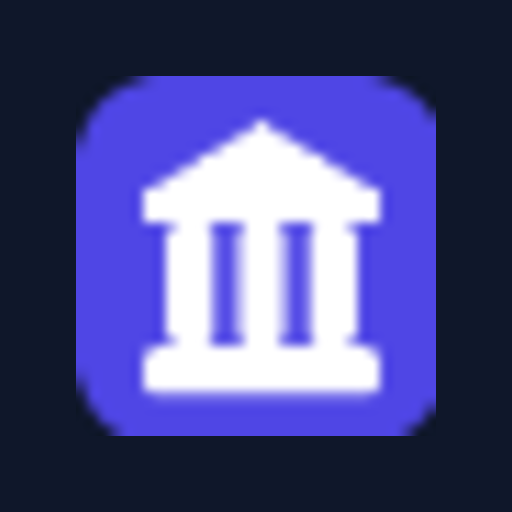
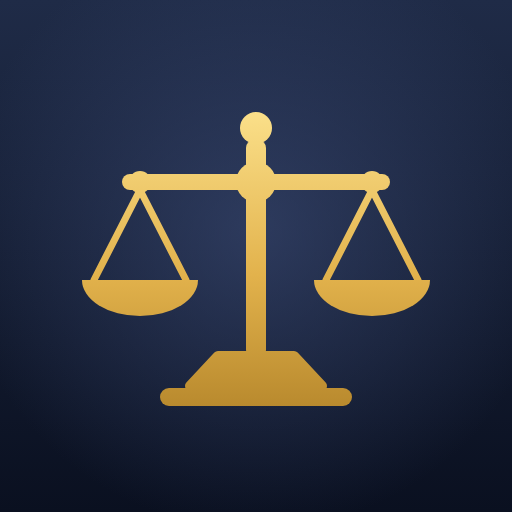
feat: 홈 화면 아이콘을 '정의의 저울'로 교체, 아이콘 갱신이 반영되도록 서비스워커 수정
- 아이콘: 짙은 남색 바탕에 금색 저울. 앱 상단·시작 화면 색(#0F172A)과 같은 계열.
  - icon-512-maskable.png: 안드로이드 마스커블 안전영역(중심 반경 40%) 안에 그림 배치.
    기존 파일은 남색 바탕 안에 보라색 상자가 한 겹 더 들어간 모양이었음.
  - icon-192.png / icon-512.png: 512 기준으로 새로 그림(기존은 32px 그림을 키워 흐릿함).
  - apple-touch-icon.png(180, 꽉 찬 사각형) 추가, index.html 연결.
  - favicon.svg 교체.
- 서비스워커(sw.js): 매니페스트·아이콘 등 파일명이 고정된 파일까지 '캐시 우선'으로
  내주고 있어, 아이콘을 바꿔도 설치된 앱이 옛 매니페스트·아이콘을 계속 받는 문제가
  있었다. 고정 파일은 네트워크 우선(오프라인 시 캐시), 해시가 붙은 /assets/ 빌드
  파일만 캐시 우선으로 변경. 캐시 버전을 v3로 올려 옛 캐시를 정리.
- 브라우저 검증(헤드리스 Chromium): 옛 워커는 서버 매니페스트 변경 후에도 옛 내용을
  반환(문제 재현), 새 워커는 새 내용 반환. 오프라인에서 매니페스트·아이콘·빌드 자산·
  새로고침 모두 캐시로 동작. 옛 워커 설치 상태에서 배포 후 다음 실행 시 약 2초 안에
  새 워커로 바뀌고 옛 캐시 삭제·새 아이콘 반환 확인.

Claude-Session: https://claude.ai/code/session_01JDGCzd2APKnDusyfSjWuFv

diff --git a/public/sw.js b/public/sw.js
@@ -4,9 +4,11 @@
 // 갱신 전략(중요):
 //  - HTML/내비게이션 요청은 항상 네트워크(no-store)로 받아 '최신 index.html'을 보장한다.
 //    index.html 은 매 배포마다 새 해시 자산(JS/CSS)을 가리키므로, 이것만 최신이면 전체가 갱신된다.
-//  - 해시가 박힌 정적 자산(JS/CSS 등)은 불변이므로 캐시 우선(빠름 + 오프라인).
+//  - 해시가 박힌 빌드 자산(/assets/ 아래 JS/CSS)은 불변이므로 캐시 우선(빠름 + 오프라인).
+//  - 파일명이 고정된 정적 파일(매니페스트·아이콘·favicon 등)은 네트워크 우선, 오프라인이면 캐시.
+//    캐시 우선으로 두면 아이콘을 바꿔도 설치된 앱이 옛 아이콘·매니페스트를 계속 쓰게 된다.
 //  - 캐시 이름(버전)을 올리면 activate 시 옛 캐시를 모두 비워 stale 화면 고착을 푼다.
-const CACHE = "case-manager-shell-v2";
+const CACHE = "case-manager-shell-v3";
 const SHELL = ["/case-manager/", "/case-manager/index.html", "/case-manager/manifest.webmanifest"];
 
 self.addEventListener("install", (e) => {
@@ -21,6 +23,11 @@ self.addEventListener("activate", (e) => {
       .then(() => self.clients.claim())
   );
 });
+
+// vite 빌드 결과물(파일명에 내용 해시 포함)은 /case-manager/assets/ 아래에만 생긴다.
+function isHashedAsset(url) {
+  return url.pathname.startsWith("/case-manager/assets/");
+}
 
 function isHtmlRequest(req, url) {
   return req.mode === "navigate"
@@ -50,7 +57,23 @@ self.addEventListener("fetch", (e) => {
     return;
   }
 
-  // 해시된 정적 자산: 캐시 우선, 없으면 네트워크 후 캐시 저장.
+  // 파일명이 고정된 정적 파일: 네트워크 우선(바뀐 아이콘·매니페스트 즉시 반영), 실패 시 캐시.
+  if (!isHashedAsset(url)) {
+    e.respondWith(
+      fetch(req)
+        .then((res) => {
+          if (res.ok) {
+            const copy = res.clone();
+            caches.open(CACHE).then((c) => c.put(req, copy)).catch(() => {});
+          }
+          return res;
+        })
+        .catch(() => caches.match(req).then((r) => r || Response.error()))
+    );
+    return;
+  }
+
+  // 해시된 빌드 자산: 캐시 우선, 없으면 네트워크 후 캐시 저장.
   e.respondWith(
     caches.match(req).then((cached) =>
       cached || fetch(req).then((res) => {

diff --git a/index.html b/index.html
@@ -9,7 +9,7 @@
     <meta name="apple-mobile-web-app-capable" content="yes" />
     <meta name="apple-mobile-web-app-status-bar-style" content="black-translucent" />
     <meta name="apple-mobile-web-app-title" content="사건관리" />
-    <link rel="apple-touch-icon" href="/case-manager/icon-192.png" />
+    <link rel="apple-touch-icon" href="/case-manager/apple-touch-icon.png" />
     <title>사건 관리</title>
   </head>
   <body>
